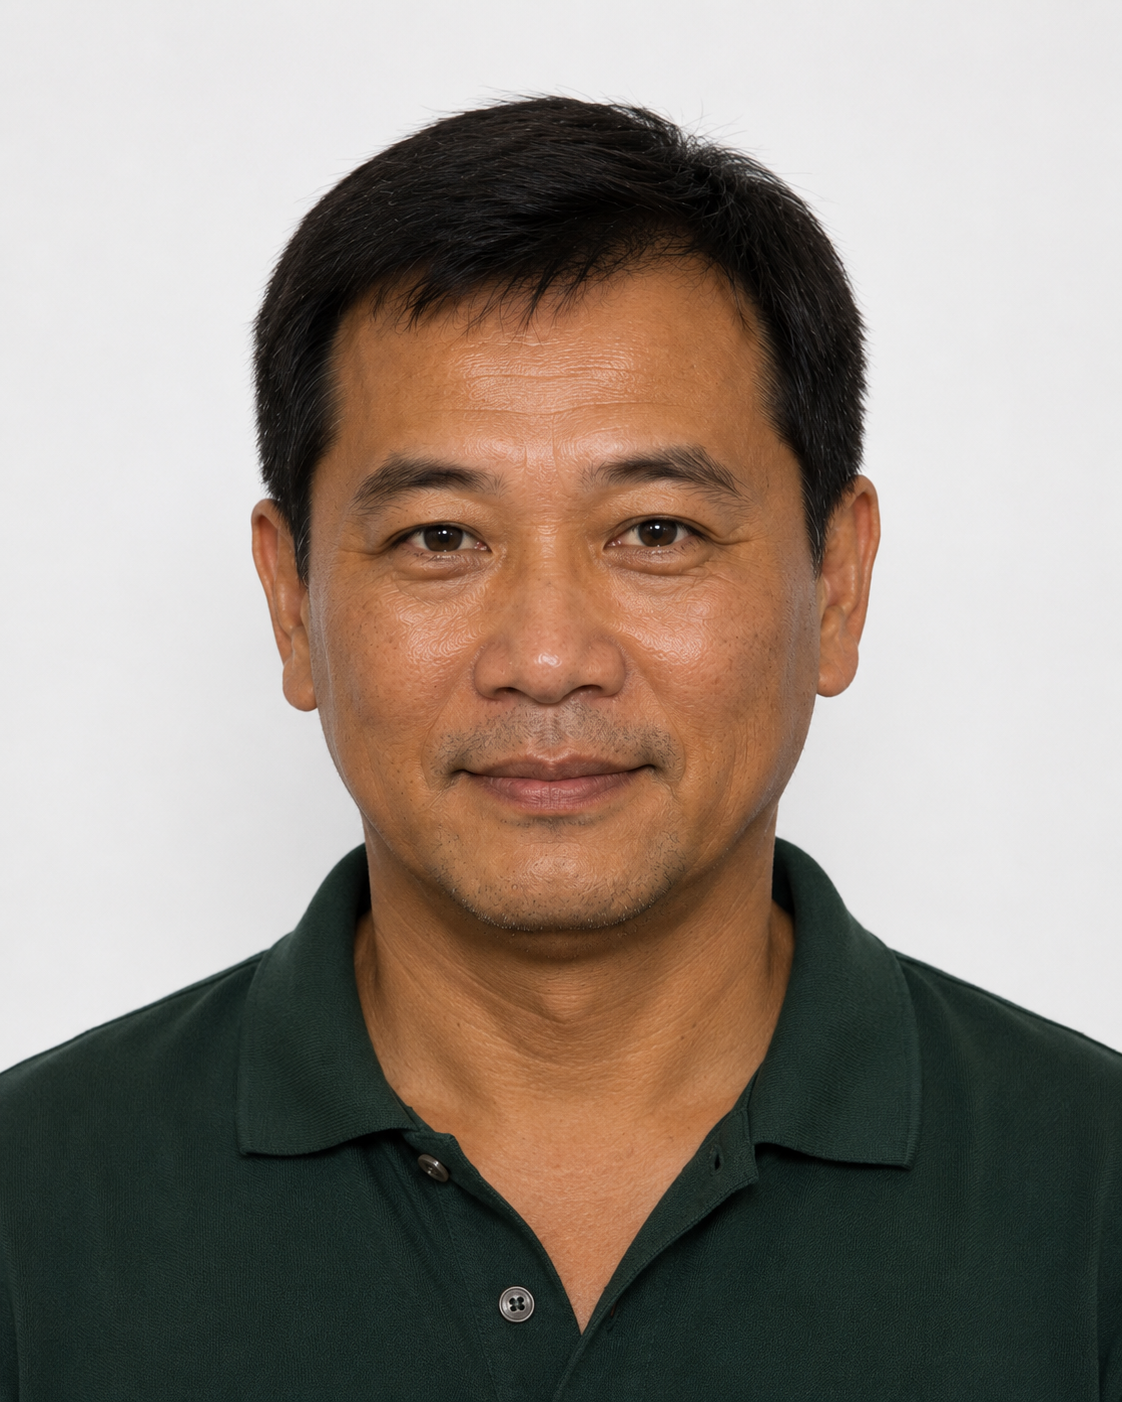
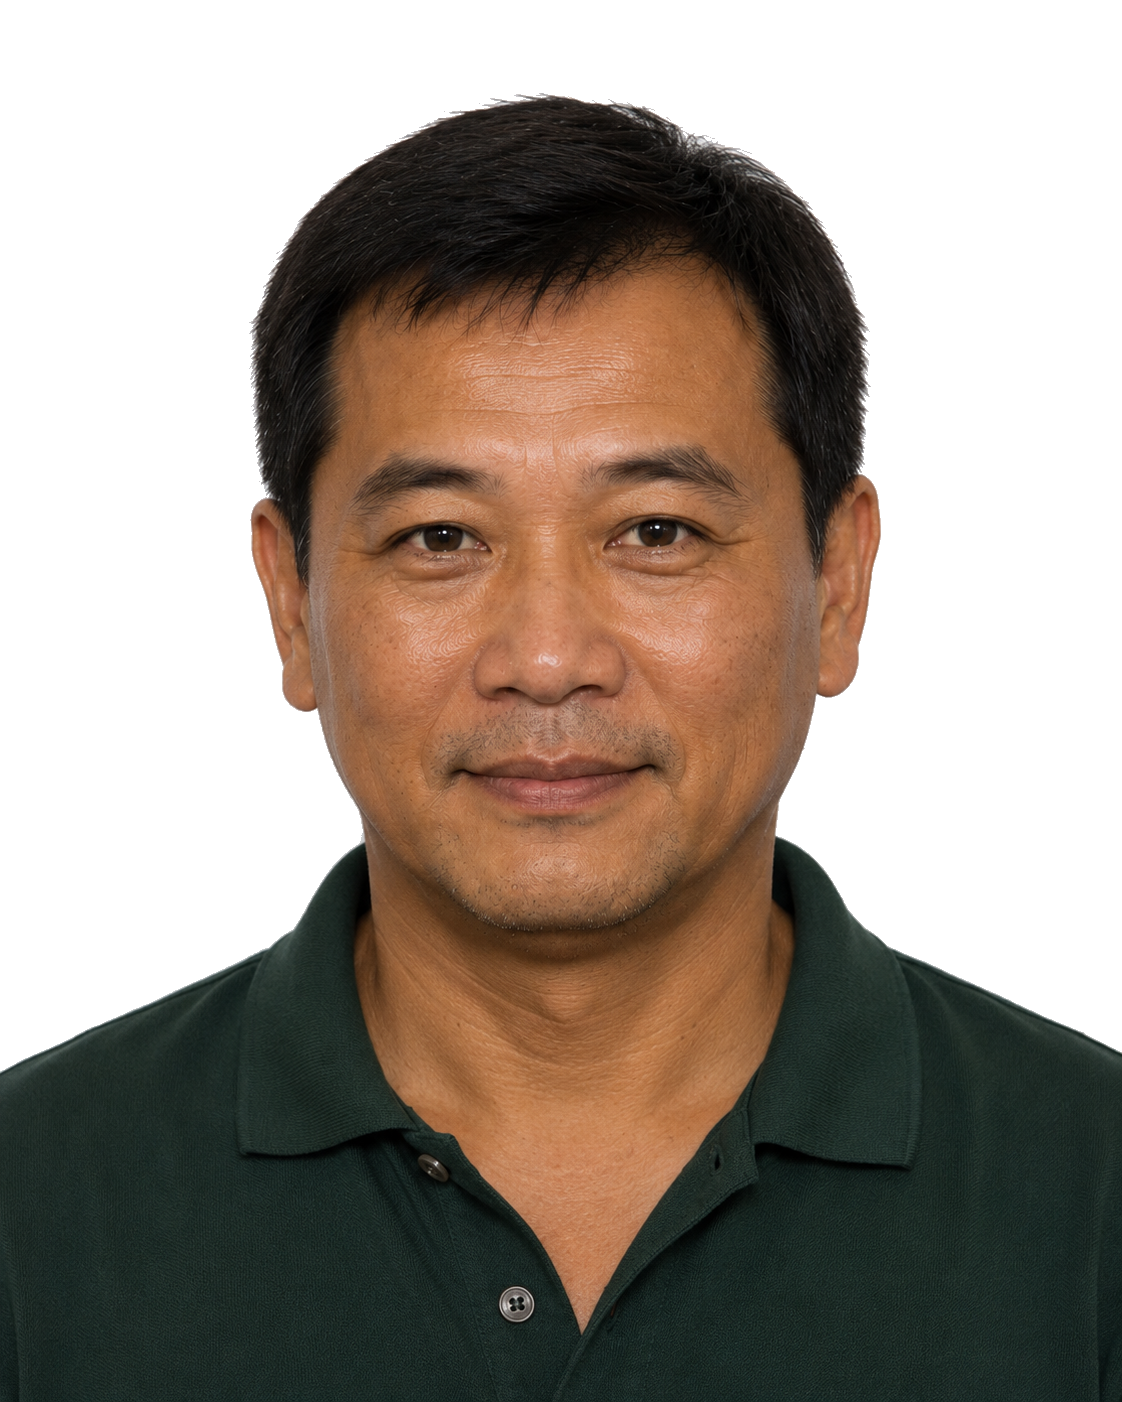
廟口阿姨/阿成正式接進 game.html：npc-temple.js 資料第一次真的被消費， 不再只是沒人讀的靜態文字。阿姨挪去顧鴨頭攤（原鹹酥雞攤位已刪）、阿成 新角色顧乾麵攤，都有按互動次數觸發的劇情事件、簡單買賣選單、貓咪/ 垃圾任務（回報才給獎勵，不是做完當場發）。阿源加上「好朋友」門檻： 帥潮<=30 被酸言酸語，>30 才會開口要求刺青+帶女朋友來，兩個條件（連同 陣頭特價）先用 __dbg 手動開關頂著，刺青店/小美交往線真的接進來後直接 換判斷條件即可。多句劇情事件改用既有的 playBeats()（story-bet.js 那套 {who,text} 逐句播放+正確切換頭像
DESIGN_NOTES 補記超商鮮食櫃/門口貼地浮空的待查線索（靜態站位重現不出來，
懷疑跟走位動態過程有關，indoorCalib() 算式待確認）。

diff --git a/prototypes/lib/npc-temple.js b/prototypes/lib/npc-temple.js
@@ -24,32 +24,76 @@
       id:'yuan', name:'阿源', tag:'陣頭學長・做板模',
       at:['night','evening'],
       desc:'蹲在金爐旁邊抽菸。手背上有一道疤，他說是模板夾的。',
+      /* talk[] 現在是「好朋友」之後才會聽到的閒聊語氣(温い、帶著自己人的
+         隨口),帥潮還不到門檻之前退回下面 lowCoolTalk——2026-08-20 kc:
+         「帥潮 <=30 會被酸言酸語,學會打理自己好嗎、刺青才帥我馬子超多
+         之類。」語氣是損你、炫耀,不是真的看不起你(跟他後面願意當好朋友
+         不衝突——這種帶刺的玩笑正是「還沒被他當自己人」的樣子,一旦真的
+         當朋友了才會聽到 talk[] 那種放鬆的隨口話)。 */
       talk:[
         '「欸，你今天沒去上班喔。」',
         '「這禮拜六有事，你有空嗎。」\n\n他沒說是什麼事，你也沒問。',
         '「我明天四點就要起來。」\n\n他講完自己笑了一下。',
         '「你們學校那個⋯⋯算了，沒事。」'
       ],
+      lowCoolTalk:[
+        '「你很 low 欸。」他上下打量你一眼。「學會打理自己好嗎。」',
+        '「刺青才帥啦你不懂喔。」他捲起袖子給你看那條龍。「我馬子超多，你知道為什麼嗎。」',
+        '「你這樣是要怎麼跟人家混。」他搖搖頭，沒有再說下去。',
+        '「欸你是不是該弄一下自己了。」他笑了一下，沒有惡意，但也沒有要幫你的意思。'
+      ],
+      /* beats 的 who(2026-08-20,kc:「裡面不是有主角的回話嗎」)——原本
+         beats 只有 { text }，一整串固定套一個角色的頭像/名字播完,但裡面
+         其實混了主角自己的台詞/反應（例如「嗯。」「⋯⋯你怎麼那麼快。」）,
+         套阿源的頭像播出來是錯的。照 story-bet.js 那套既有慣例（{who,text},
+         who 是 'pc' 或角色自己的 id，playBeats() 逐句依 who 換頭像/名字）
+         補上 who，narration 描述誰的動作就標誰。 */
       events:[
         { at:3, title:'他問你還在讀嗎',
           beats:[
-            { text:'「你還在讀齁。」' },
-            { text:'「嗯。」' },
-            { text:'他點點頭，把菸按熄在地上。' },
-            { text:'「讀啦。可以讀就讀。」' },
-            { text:'他講這句話的時候沒有看你。' }
+            { who:'yuan', text:'「你還在讀齁。」' },
+            { who:'pc',   text:'「嗯。」' },
+            { who:'yuan', text:'他點點頭，把菸按熄在地上。' },
+            { who:'yuan', text:'「讀啦。可以讀就讀。」' },
+            { who:'yuan', text:'他講這句話的時候沒有看你。' }
           ],
           quiet:'他國中畢業那年，他爸走了。這件事是阿姨後來講的。', calm:+8 },
         { at:6, title:'他幫你算',
           beats:[
-            { text:'你在算這個月的錢，算不出來。' },
-            { text:'他瞄了一眼，兩秒鐘就講出答案。' },
-            { text:'「差四千二啦。」' },
-            { text:'「⋯⋯你怎麼那麼快。」' },
-            { text:'「工地都嘛在算這個。」' }
+            { who:'pc',   text:'你在算這個月的錢，算不出來。' },
+            { who:'yuan', text:'他瞄了一眼，兩秒鐘就講出答案。' },
+            { who:'yuan', text:'「差四千二啦。」' },
+            { who:'pc',   text:'「⋯⋯你怎麼那麼快。」' },
+            { who:'yuan', text:'「工地都嘛在算這個。」' }
           ],
           quiet:'他算得比你快。他數學一直都很好。', calm:+10 }
-      ]
+      ],
+      /* 好朋友門檻(2026-08-20,kc:「他會叫你去刺青並且帶女朋友來,帥潮
+         >30 他才會跟你當好朋友,跟學校女生交往也會加值」)——觸發條件
+         (帥潮>30、有沒有刺青、有沒有交女朋友)是會變動的遊戲狀態,不是
+         單純按互動次數,判斷邏輯放 game.html(talkToYuan()),這裡只放
+         台詞資料,跟 events[] 那組 at:N 的觸發方式不同,不要混在一起用
+         同一套 visits 邏輯讀。 */
+      askFriend:{
+        beats:[
+          { who:'yuan', text:'他把菸捻熄。' },
+          { who:'yuan', text:'「欸，你最近不太一樣喔。」' },
+          { who:'yuan', text:'「你去給人家刺一個啦，站得住的那種。」' },
+          { who:'yuan', text:'「然後啊——」他頓了一下，「你不是有在跟那個誰喔？學校那個。帶出來給大家看一下。」' },
+          { who:'yuan', text:'他說完自己先笑了。' }
+        ],
+        quiet:'他沒有講「你是自己人了」，但那句話大概就是這個意思。'
+      },
+      becomeFriend:{
+        beats:[
+          { who:'yuan', text:'他看到你手臂上那個，愣了一下。' },
+          { who:'yuan', text:'「喔？真的去刺了。」' },
+          { who:'pc',   text:'你身邊那個也一起來了，他多看了兩眼，沒說什麼。' },
+          { who:'yuan', text:'「好啦。」他拍了下你的肩膀。' },
+          { who:'yuan', text:'「你現在算自己人了。」' }
+        ],
+        quiet:'這句話，他對很多人都沒講過。', calm:+15, cool:+3
+      }
     },
 
     /* ── 阿姨 50 幾・攤子 ── 她知道每個人的事,她從來不講自己的 ── */
@@ -63,22 +107,23 @@
         '「這個給你，剛剛炸太多。」\n\n那不是炸太多。',
         '「你媽媽最近好嗎。」\n\n她問得很快，好像只是隨口。'
       ],
+      /* beats 的 who,見上面阿源那則筆記——同一輪一起補。 */
       events:[
         { at:3, title:'她多給你',
           beats:[
-            { text:'你點了六十塊的。' },
-            { text:'她裝了一大袋，還多丟了兩塊雞排進去。' },
-            { text:'「六十。」' },
-            { text:'「阿姨這個⋯⋯」' },
-            { text:'「六十啦。」' }
+            { who:'pc',  text:'你點了六十塊的。' },
+            { who:'ayi', text:'她裝了一大袋，還多丟了兩塊雞排進去。' },
+            { who:'ayi', text:'「六十。」' },
+            { who:'pc',  text:'「阿姨這個⋯⋯」' },
+            { who:'ayi', text:'「六十啦。」' }
           ],
           quiet:'她沒有抬頭。那袋東西至少值一百二。', calm:+9, money:-60, full:+24 },
         { at:6, title:'她在算錢',
           beats:[
-            { text:'你比較早到，攤子還沒收。' },
-            { text:'她在算今天的錢，算了三次。' },
-            { text:'看到你之後她把錢收起來，笑了一下。' },
-            { text:'「等一下喔，油還沒熱。」' }
+            { who:'pc',  text:'你比較早到，攤子還沒收。' },
+            { who:'ayi', text:'她在算今天的錢，算了三次。' },
+            { who:'ayi', text:'看到你之後她把錢收起來，笑了一下。' },
+            { who:'ayi', text:'「等一下喔，油還沒熱。」' }
           ],
           quiet:'她兒子在裡面。這件事沒有人在她面前提過。', calm:+7 }
       ]
@@ -102,30 +147,31 @@
         '「外面冷，裡面坐。」',
         '「你這禮拜都有來，不錯。」'
       ],
+      /* beats 的 who,見阿源那則筆記——同一輪一起補。 */
       events:[
         { at:2, title:'他記得你的口味',
           beats:[
-            { text:'「你都不加香菜齁。」' },
-            { text:'他問都沒問，你這才發現他早就記住了。' },
-            { text:'「不吃辣，我都先撈起來。」' }
+            { who:'acheng', text:'「你都不加香菜齁。」' },
+            { who:'pc',     text:'他問都沒問，你這才發現他早就記住了。' },
+            { who:'acheng', text:'「不吃辣，我都先撈起來。」' }
           ],
           quiet:'沒有人教他要記這個，他就是自己記了。', calm:+8 },
         { at:4, title:'他要你去看看陣頭',
           beats:[
-            { text:'「欸，你晚上要不要去廟口那邊看一下。」' },
-            { text:'「他們在練陣頭，人都很好，不會兇你。」' },
-            { text:'「阿源他們那組，你去了就知道。」' },
-            { text:'他擦了擦手，像是隨口提的。' },
-            { text:'「而且啊——」他笑了一下，「你真的去了，以後跟我拿東西都算自己人價，不用跟我客氣。」' }
+            { who:'acheng', text:'「欸，你晚上要不要去廟口那邊看一下。」' },
+            { who:'acheng', text:'「他們在練陣頭，人都很好，不會兇你。」' },
+            { who:'acheng', text:'「阿源他們那組，你去了就知道。」' },
+            { who:'acheng', text:'他擦了擦手，像是隨口提的。' },
+            { who:'acheng', text:'「而且啊——」他笑了一下，「你真的去了，以後跟我拿東西都算自己人價，不用跟我客氣。」' }
           ],
           quiet:'他沒有說「你需要朋友」，但你知道他是這個意思。', calm:+10 },
         { at:7, title:'收攤的時候',
           beats:[
-            { text:'你比較晚到，攤子在收了。' },
-            { text:'「來，剩的給你，不然要倒掉。」' },
-            { text:'他沒有算錢。' },
-            { text:'「你知道嗎，我十幾歲的時候也想過要去外面看看。」' },
-            { text:'他沒有繼續說下去，轉身去洗鍋子。' }
+            { who:'pc',     text:'你比較晚到，攤子在收了。' },
+            { who:'acheng', text:'「來，剩的給你，不然要倒掉。」' },
+            { who:'acheng', text:'他沒有算錢。' },
+            { who:'acheng', text:'「你知道嗎，我十幾歲的時候也想過要去外面看看。」' },
+            { who:'acheng', text:'他沒有繼續說下去，轉身去洗鍋子。' }
           ],
           quiet:'你後來才知道，他從來沒有真的離開過這條街。', calm:+12 }
       ]

diff --git a/prototypes/game.html b/prototypes/game.html
@@ -930,6 +930,19 @@ const AYI = { x:-22, z:-93.5, visits:0, seenEvents:{}, catQuest:{ active:false, 
    簡化成「累計撿滿 3 件」,不做額外的範圍判斷。 */
 const ACHENG = { x:-13, z:-93.5, visits:0, seenEvents:{}, litterQuest:{ active:false, taskDone:false, done:false, picked:0, need:3 } };
 
+/* 阿源好朋友門檻(2026-08-20,kc:「他會叫你去刺青並且帶女朋友來,帥潮
+   >30 他才會跟你當好朋友,跟學校女生交往也會加值」)——跟阿姨/阿成不同,
+   他的觸發條件是遊戲狀態(ST.cool)不是單純互動次數,見 talkToYuan()。
+   hasTattoo/hasGirlfriend 這輪先當debug 開關(跟 joinedTroupe 同一套
+   「系統本身還沒做,先給 kc 一個手動開關測」做法)——刺青店
+   (`prototypes/tattoo-room.html`/`scene-tattoo.js`)跟小美的交往任務
+   (`lib/quests.js` mei1~mei4)都還沒接進 game.html,真的接上之後,把這兩
+   個布林值改成讀真正的完成條件就好,talkToYuan() 的判斷邏輯不用重寫。
+   「跟學校女生交往也會加值」這句這輪直接簡化成「hasGirlfriend 為真」同一
+   個布林值,沒有另外做一個獨立的數值加成——小美線真的接上、有真正的
+   交往進度可以讀之後,這裡可以再拆細。 */
+const YUAN = { x:-6, z:-86, visits:0, seenEvents:{}, asked:false, hasTattoo:false, hasGirlfriend:false, friend:false };
+
 /* 街頭藝人(2026-08-20,kc 追加:「手上要拿吉他」)——拉出來宣告成獨立
  * 變數,因為要在模型載入完成後把吉他掛到他身上(骨架是非同步載入的,
  * loadModel().then() 才 g.add(model),所以掛吉他要等,見下面
@@ -2381,10 +2394,10 @@ function coEndShift(){
    game.html 別處(問有沒有缺人那段)手寫巢狀 say() 是同一招,只是這裡
    句數會變(2~3 句看分級結果),包成一個小函式比每個分級各寫一次巢狀
    呼叫省事。 */
-function coSayChain(who, lines, i){
+function coSayChain(who, lines, i, after){
   i = i || 0;
-  if(i >= lines.length) return;
-  say(who, lines[i], () => coSayChain(who, lines, i+1));
+  if(i >= lines.length){ after && after(); return; }
+  say(who, lines[i], () => coSayChain(who, lines, i+1, after));
 }
 
 function updateIndoor(dt){
@@ -3022,6 +3035,8 @@ function updateCity(dt){
       nearProp = { type:'ayi', ref:AYI };
     if(!nearProp && Math.hypot(pos.x-ACHENG.x, pos.z-ACHENG.z) < 4.5)
       nearProp = { type:'acheng', ref:ACHENG };
+    if(!nearProp && Math.hypot(pos.x-YUAN.x, pos.z-YUAN.z) < 3.2)
+      nearProp = { type:'yuan', ref:YUAN };
     /* 路人搭話(2026-08-19,kc 要求「路邊人物都至少可以對話一句話」)——
        PEDESTRIANS 走位置會變,不能像 pets/litter 那樣讀固定的 x/z,直接
        讀 npc.group.position。純背景路人,不記名字、不分支對話,一句隨機
@@ -3054,6 +3069,7 @@ function updateCity(dt){
                       : nearProp.type === 'statue' ? '按 <b>空白鍵</b> 看看牌子上寫什麼'
                       : nearProp.type === 'ayi' ? '按 <b>空白鍵</b> 找阿姨'
                       : nearProp.type === 'acheng' ? '按 <b>空白鍵</b> 找阿成'
+                      : nearProp.type === 'yuan' ? '按 <b>空白鍵</b> 找阿源'
                       : nearProp.type === 'pedestrian' ? '按 <b>空白鍵</b> 打聲招呼'
                       : '按 <b>空白鍵</b> 撿起垃圾';
     hintEl.classList.add('on');
@@ -3175,7 +3191,7 @@ function talkToStallVendor(state, data, whoKey, onBuyMenu, opts){
   const ev = data.events.find(e => e.at === state.visits && !state.seenEvents[e.at]);
   if(ev){
     state.seenEvents[ev.at] = true;
-    say(whoKey, ev.beats.map(b => b.text).join('\n\n'), () => {
+    playBeats(ev.beats, 0, () => {
       if(ev.calm) chg('calm', ev.calm);
       if(ev.money) chg('money', ev.money);
       if(ev.full) chg('full', ev.full);
@@ -3222,6 +3238,63 @@ function talkToAcheng(){
     }
     openStallMenu('阿成的麵攤', '阿成', 45, 16, '「趁熱吃。」', '「自己人,不用跟我客氣。」', extra);
   }, { talkGivesCalm: 2 });
+}
+/* 阿源好朋友門檻(2026-08-20)——狀態機:
+   1. 帥潮 <=30:退回原本的 events[]/talk[] 閒聊(跟 talkToStallVendor 同一套
+      「按次數觸發劇情事件、沒事件就隨機閒聊」邏輯,傳空 onBuyMenu 因為他
+      沒有買賣選單)。
+   2. 帥潮 >30 但還沒問過(asked=false):第一次跨過門檻,觸發 askFriend——
+      他開口要求刺青+帶女朋友來,之後每次都會停在「還缺什麼」的提醒,
+      不會重複整段 ask 台詞。
+   3. asked=true 但 hasTattoo/hasGirlfriend 沒集滿:提醒還差哪個。
+   4. 兩個條件都滿足:觸發 becomeFriend 里程碑,friend 從此恆真,之後只是
+      單純聊天(退回 talk[] 隨機句,不再檢查門檻)。 */
+const YUAN_DATA = NpcTemple.NPCS.find(n => n.id === 'yuan');
+function talkToYuan(){
+  if(YUAN.friend){
+    YUAN.visits++;
+    say('yuan', YUAN_DATA.talk[Math.random()*YUAN_DATA.talk.length|0]);
+    return;
+  }
+  if(YUAN.asked && YUAN.hasTattoo && YUAN.hasGirlfriend){
+    const ev = YUAN_DATA.becomeFriend;
+    playBeats(ev.beats, 0, () => {
+      if(ev.calm) chg('calm', ev.calm);
+      if(ev.cool) chg('cool', ev.cool);
+      YUAN.friend = true;
+      if(ev.quiet) toast(ev.quiet, 3200);
+    });
+    return;
+  }
+  if(YUAN.asked){
+    const missing = [!YUAN.hasTattoo && '刺青', !YUAN.hasGirlfriend && '帶女朋友來'].filter(Boolean).join('、');
+    say('yuan', '他看了你一眼。\n\n「' + missing + '還沒喔。」');
+    return;
+  }
+  if(ST.cool > 30){
+    const ev = YUAN_DATA.askFriend;
+    playBeats(ev.beats, 0, () => {
+      YUAN.asked = true;
+      if(ev.quiet) toast(ev.quiet, 3200);
+    });
+    return;
+  }
+  /* 帥潮 <=30(2026-08-20,kc:「會被酸言酸語」)——events[]（at:3/at:6 那
+     兩段,實際是他關心你的深層時刻)照舊按次數觸發,只有「這次沒有事件」
+     的閒聊 fallback 換成 lowCoolTalk(酸你的那組),不是 talk[]（那組現在
+     保留給 friend=true 之後用,見上面 talk[] 那則筆記）。不能直接呼叫
+     talkToStallVendor()，因為它固定讀 data.talk，沒有辦法換成 lowCoolTalk。 */
+  YUAN.visits++;
+  const ev = YUAN_DATA.events.find(e => e.at === YUAN.visits && !YUAN.seenEvents[e.at]);
+  if(ev){
+    YUAN.seenEvents[ev.at] = true;
+    playBeats(ev.beats, 0, () => {
+      if(ev.calm) chg('calm', ev.calm);
+      if(ev.quiet) toast(ev.quiet, 3200);
+    });
+  } else {
+    say('yuan', YUAN_DATA.lowCoolTalk[Math.random()*YUAN_DATA.lowCoolTalk.length|0]);
+  }
 }
 function buyMoto(m){
   openMenu('機車行', [
@@ -3283,6 +3356,7 @@ function interactProp(prop){
      這裡刻意留白,不重複講。 */
   if(prop.type === 'ayi'){ talkToAyi(); return; }
   if(prop.type === 'acheng'){ talkToAcheng(); return; }
+  if(prop.type === 'yuan'){ talkToYuan(); return; }
   if(prop.type === 'statue'){
     toast('（雕像底下有一塊小小的牌子)\n「致 那些沒有人要的女孩,妳們值得站上場。」\n沒有寫名字,也沒有寫年份。', 3600);
     return;
@@ -3427,7 +3501,7 @@ window.__dbg = {
   /* 陣頭特價測試開關(2026-08-20)——陣頭音遊本身還沒做,先用這個手動切,
      見 talkToAyi()/ayiBuyMenu() 那則筆記。 */
   joinedTroupe: (v) => { if(v != null) joinedTroupe = v; return joinedTroupe; },
-  AYI, talkToAyi, ACHENG, talkToAcheng,
+  AYI, talkToAyi, ACHENG, talkToAcheng, YUAN, talkToYuan,
   indoorCalib(){
     const s = heroIndoor.group.scale.x;
     return { FIXTURE_COLLIDERS, heroPos: heroIndoor.group.position.toArray(), heroScale: s,

diff --git a/tools/white-to-alpha.py b/tools/white-to-alpha.py
@@ -1,9 +1,14 @@
-# 白底轉透明——跟 black-to-alpha.py 同一招,只是這次來源圖是白底(GPT 生圖
-# 存成 JPEG/RGB PNG 時常把透明區壓成接近白色,不是純黑)。一樣用連通分量:
-# 只有真正從畫面邊界一路連過來的亮色區域才算背景,物件內部被包住、沒連到
-# 邊界的亮部(反光、白色食物、白色托盤)維持不透明。
+# 白底轉透明——對話頭像(clerk/pc/mom/dad 之後那批,見 game.html
+# drawPortrait())是純白/淺灰底拍的證件照,drawPortrait() 會先鋪一層深藏青
+# (#1b202b)再疊頭像上去,白底不去掉的話對話框裡會看到一塊突兀的方塊,
+# 跟深色 UI 對不起來。跟 black-to-alpha.py(挖黑底,給垃圾/招牌那批物件照用)
+# 是同一個道理的反過來,這支專門給頭像這種「淺色背景、深色/膚色主體」用。
 #
 #   python3 tools/white-to-alpha.py 原圖.png 輸出.png [閾值,預設 230]
+#
+# 一樣用連通分量:只有真正從畫面邊界一路連過來的亮色區域才算背景,人臉/
+# 衣服上偶爾出現的高光反光(額頭、鼻樑)不會被誤挖,因為那些光斑通常被
+# 深色像素包住、沒連到邊界。
 
 import sys
 import numpy as np
@@ -15,9 +20,9 @@ thresh = int(sys.argv[3]) if len(sys.argv) > 3 else 230
 
 im = Image.open(src).convert("RGBA")
 arr = np.array(im)
-bright = arr[:, :, :3].min(axis=2) >= thresh
+light = arr[:, :, :3].min(axis=2) >= thresh
 
-labels, n = label(bright, structure=np.ones((3, 3)))  # 8-connectivity
+labels, n = label(light, structure=np.ones((3, 3)))  # 8-connectivity
 border_labels = set(labels[0, :]) | set(labels[-1, :]) | set(labels[:, 0]) | set(labels[:, -1])
 border_labels.discard(0)
 
@@ -25,4 +30,4 @@ bg_mask = np.isin(labels, list(border_labels))
 arr[bg_mask, 3] = 0
 
 Image.fromarray(arr).save(dst)
-print(f"{src} -> {dst}  ({len(border_labels)} 塊邊界連通白塊挖成透明)")
+print(f"{src} -> {dst}  ({len(border_labels)} 塊邊界連通亮色塊挖成透明)")
